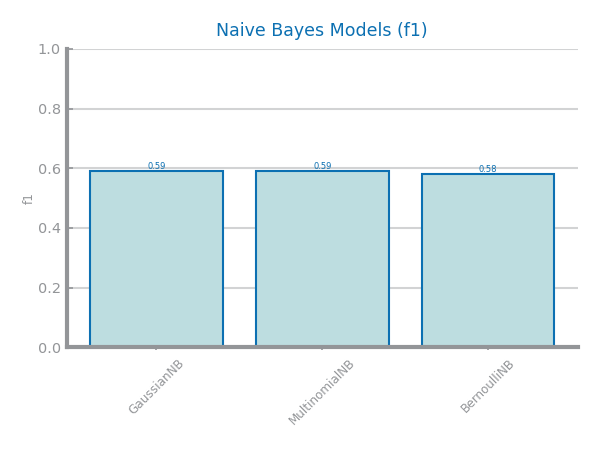
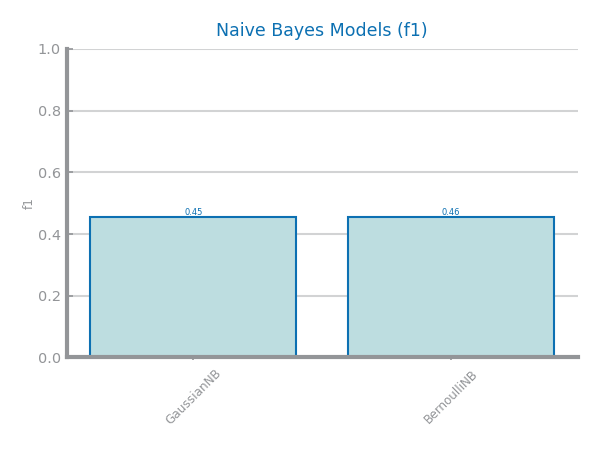
update todo, new NBclassification; IMPORTANT, ask for new data files

diff --git a/set1.py b/set1.py
@@ -229,7 +229,7 @@ evaluate(eval1, file_tag, "Outliers_truncate")
 
 {'accuracy': [0.6963073153657683, 0.7029488974448722], 'recall': [0.16870120866865598, 0.07966362238900443], 'precision': [0.4399119704472216, 0.4364266842800528], 'auc': [0.5404188138950101, 0.5187906659840907], 'f1': [0.24387799564270152, 0.13473351515305995]}
 {'accuracy': [0.6963073153657683, 0.7029838991949597], 'recall': [0.16870120866865598, 0.0797239051149893], 'precision': [0.4399119704472216, 0.43675693527080584], 'auc': [0.5404188138950101, 0.5188331373472066], 'f1': [0.24387799564270152, 0.13483547013993322]}
-'''
+
 
 # -------------------- #
 # ----- Scaling ------ #
@@ -251,58 +251,58 @@ evaluate(eval1, file_tag, "Scaling_standard")
 train_data_2, test_data_2 = train_test_split(scaling2, test_size=0.3, random_state=42)
 eval2 = evaluate_approach(train_data_2, test_data_2, target, "accuracy")
 print(eval2)
-evaluate(eval1, file_tag, "Scaling_min-max")
+evaluate(eval2, file_tag, "Scaling_min-max")
 
 {'accuracy': [0.7096867343367168, 0.7042527126356318], 'recall': [0.0, 0.06700424993218193], 'precision': [0.0, 0.43872113676731794], 'auc': [0.5, 0.5159688647907584], 'f1': [0.0, 0.1162535299654848]}
 {'accuracy': [0.7074641232061603, 0.7047602380119006], 'recall': [0.07236941254483528, 0.06516562678964342], 'precision': [0.47488132911392406, 0.44239819930427665], 'auc': [0.5198166311087369, 0.5157831882268255], 'f1': [0.125598305129077, 0.11359815048339639]}
-'''
+
 # -------------------- #
 # ----  Balancing ---- #
 # -------------------- #
+#TODO RUN THIS ONLY ONE TIME TO HAVE NEW DATASET!
+scaling = DataFrame = read_csv("data\pos_covid_scaled_zscore.csv",na_values="")
+strategy: array = scaling[target].to_list()
+trainData, testData = train_test_split(scaling, test_size=0.3, random_state=42, stratify=strategy)
+trainData.to_csv(f"data/{file_tag}_train.csv", index=False)
+testData.to_csv(f"data/{file_tag}_test.csv", index=False)
 
-scaling2 = DataFrame = read_csv("data\pos_covid_scaled_minmax.csv",na_values="")
-scaling2.drop(scaling2.columns[0], axis=1, inplace=True)
-dataBalancing = Balancing(filename, file_tag, scaling2, target)#TODO change for the best scalling
+trainData = DataFrame = read_csv("data\pos_covid_train.csv")
+testData = DataFrame = read_csv("data\pos_covid_test.csv")
+dataBalancing = Balancing(filename, file_tag, trainData, target)
 
 #dataBalancing.check_balance()
+
 undersampling = dataBalancing.undersampling()
 oversampling = dataBalancing.oversampling()
 smote = dataBalancing.SMOTE()
+oversampling.to_csv(f"data/{file_tag}_train.csv", index=False)
 
 #Eval undersampling
-train_data_1, test_data_1 = train_test_split(undersampling, test_size=0.3, random_state=42)
-eval1 = evaluate_approach(train_data_1, test_data_1, target, "accuracy")
+eval1 = evaluate_approach(undersampling, testData.copy(), target, "accuracy")
 print(eval1)
-
+evaluate(eval1, file_tag, "Balancing_undersampling")
 #Eval oversampling
-train_data_2, test_data_2 = train_test_split(oversampling, test_size=0.3, random_state=42)
-eval2 = evaluate_approach(train_data_2, test_data_2, target, "accuracy")
+eval2 = evaluate_approach(oversampling, testData.copy(), target, "accuracy")
 print(eval2)
-
+evaluate(eval2, file_tag, "Balancing_oversampling")
 #Eval smote
-train_data_3, test_data_3 = train_test_split(smote, test_size=0.3, random_state=42)
-eval3 = evaluate_approach(train_data_3, test_data_3, target, "accuracy")
+eval3 = evaluate_approach(smote, testData.copy(), target, "accuracy")
 print(eval3)
+evaluate(eval3, file_tag, "Balancing_SMOTE")
 
-
-{'accuracy': [0.5836427315225398, 0.5822147398800487], 'recall': [0.5802304830464898, 0.6072714073984453], 'precision': [0.5812325778693491, 0.5754865709289994], 'auc': [0.5836220842890371, 0.5823663557042427], 'f1': [0.5807310981609021, 0.5909519043974805]}
-{'accuracy': [0.5882937426326736, 0.789765047860621], 'recall': [0.5915400927113128, 0.885269750468488], 'precision': [0.5882908288376655, 0.7436027546212396], 'auc': [0.5882899114092272, 0.7896523367090157], 'f1': [0.5899109865250319, 0.8082756912824958]}
-{'accuracy': [0.6261440570747934, 0.7647763109983768], 'recall': [0.6036628316506222, 0.9034614006253012], 'precision': [0.6314993406934354, 0.7069750800205007], 'auc': [0.6261175880316431, 0.7649395966535126], 'f1': [0.6172674143105354, 0.7932317774450448]}
+#{'accuracy': [0.5847917395869794, 0.6007000350017501], 'recall': [0.5995719926455074, 0.4569430629653073], 'precision': [0.3679819449839984, 0.35441262419637637], 'auc': [0.5891587692164815, 0.5582250547801889], 'f1': [0.4560607102735172, 0.3991994944175269]}
+#{'accuracy': [0.5846692334616731, 0.6171946097304866], 'recall': [0.6004762335352805, 0.30732133707086234], 'precision': [0.3680331048752101, 0.3293068923196176], 'auc': [0.5893396296586554, 0.5256382772552072], 'f1': [0.45636138727264397, 0.3179344860381359]}
+#{'accuracy': [0.5851855092754638, 0.5815453272663633], 'recall': [0.5952014950116045, 0.40503963589233505], 'precision': [0.36757752875916755, 0.32365125240847786], 'auc': [0.5881448704112435, 0.5293942862149122], 'f1': [0.4544816396045984, 0.359800259715919]}
 '''
 # ---------------------------------------
 #             Classification  
 # ---------------------------------------
-'''
-classificationData = DataFrame = read_csv("data\pos_covid_balance_oversample.csv", na_values="")
-classificationData.drop(classificationData.columns[0], axis=1, inplace=True)
-strategy: array = classificationData[target].to_list()
 
 #Buscar Dados (treino, teste e validação)    
-trainData, testData = train_test_split(classificationData, test_size=0.3, stratify=strategy)
+
 #trainData, validationData = train_test_split(trainData, test_size=0.3, stratify=strategy)
 
-trainData.to_csv(f"data/{file_tag}_train.csv", index=False)
-testData.to_csv(f"data/{file_tag}_test.csv", index=False)
+
 
 # -------------------- #
 # ------ NBayes ------ #
@@ -312,22 +312,19 @@ classificationNB = NBayes(file_tag,"data/pos_covid_train.csv","data/pos_covid_te
 
 classificationNB.full_metrics_NB_study()
 
-'''
-'''
+
 # -------------------- #
 # ------- KNN -------- #
 # -------------------- #
-K_MAX = 1
-lag   = 1 # step size
+K_MAX = 25
+lag   = 2 # step size
 
 classificationKnn = Knn(file_tag,"data/pos_covid_train.csv","data/pos_covid_test.csv",target)
 
 # Testar Parâmetros:
 # --- K = [1 ... 25] 
 classificationKnn.full_metrics_knn_study(K_MAX, lag)
-'''
 
-'''
 # -------------------- #
 # -- Decision Trees -- #
 # -------------------- #
@@ -339,4 +336,4 @@ classificationDT = DecisionTree(file_tag,"data/pos_covid_train.csv","data/pos_co
 # Testar Parâmetros:
 # --- D = [2, 4, 6, 8, 10] 
 classificationDT.full_metrics_decision_tree_study(D_MAX, lag)
-'''
+

diff --git a/preparation/balancing.py b/preparation/balancing.py
@@ -2,7 +2,7 @@
 file:       balancing.py
 '''
 
-from pandas import read_csv, concat, DataFrame, Series
+from pandas import concat, DataFrame, Series
 from numpy import ndarray
 from matplotlib.pyplot import figure, show
 from auxiliar.dslabs_functions import plot_bar_chart
@@ -46,23 +46,19 @@ class Balancing:
     def undersampling(self): 
         df_neg_sample: DataFrame = DataFrame(self.df_negatives.sample(len(self.df_positives)))
         df_under: DataFrame = concat([self.df_positives, df_neg_sample], axis=0)
-        df_under.to_csv(f"data/{self.file_tag}_under.csv", index=False)
-
         print("Minority class=", self.positive_class, ":", len(self.df_positives))
         print("Majority class=", self.negative_class, ":", len(df_neg_sample))
         print("Proportion:", round(len(self.df_positives) / len(df_neg_sample), 2), ": 1")
-        df_under.to_csv(f"data/{self.file_tag}_balance_undersample.csv", index=True)
+        df_under.to_csv(f"data/{self.file_tag}_balance_undersample.csv", index=False)
         return df_under
 
     def oversampling(self):
         df_pos_sample: DataFrame = DataFrame(self.df_positives.sample(len(self.df_negatives), replace=True))
         df_over: DataFrame = concat([df_pos_sample, self.df_negatives], axis=0)
-        df_over.to_csv(f"data/{self.file_tag}_over.csv", index=False)
-
         print("Minority class=", self.positive_class, ":", len(df_pos_sample))
         print("Majority class=", self.negative_class, ":", len(self.df_negatives))
         print("Proportion:", round(len(df_pos_sample) / len(self.df_negatives), 2), ": 1")
-        df_over.to_csv(f"data/{self.file_tag}_balance_oversample.csv", index=True)
+        df_over.to_csv(f"data/{self.file_tag}_balance_oversample.csv", index=False)
         return df_over
 
     def SMOTE(self):
@@ -72,8 +68,6 @@ class Balancing:
         smote_X, smote_y = smote.fit_resample(X, y)
         df_smote: DataFrame = concat([DataFrame(smote_X), DataFrame(smote_y)], axis=1)
         df_smote.columns = list(self.original.columns) + [self.target]
-        df_smote.to_csv(f"data/{self.file_tag}_smote.csv", index=False)
-
         smote_target_count: Series = Series(smote_y).value_counts()
         print("Minority class=", self.positive_class, ":", smote_target_count[self.positive_class])
         print("Majority class=", self.negative_class, ":", smote_target_count[self.negative_class])
@@ -82,6 +76,5 @@ class Balancing:
             round(smote_target_count[self.positive_class] / smote_target_count[self.negative_class], 2),
             ": 1",
         )
-        print(df_smote.shape)
-        df_smote.to_csv(f"data/{self.file_tag}_balance_smote.csv", index=True)
+        df_smote.to_csv(f"data/{self.file_tag}_balance_smote.csv", index=False)
         return df_smote

diff --git a/classification/decision_tree.py b/classification/decision_tree.py
@@ -56,6 +56,7 @@ class DecisionTree:
             savefig(f"images/classification/{self.file_tag}_dt_{eval_metric}_study.png")
             if eval_metric == "accuracy":
                 self.performance_analysis(best_model,params)
+                self.visualize_tree(best_model,params)
                 self.visualize_tree_simplified(best_model,params)
                 self.visualize_variable_importance(best_model,eval_metric)
                 self.dt_overfitting_study(params,eval_metric)

diff --git a/classification/knn.py b/classification/knn.py
@@ -45,8 +45,7 @@ class Knn:
         return best_model, best_params
 
     def full_metrics_knn_study(self, k_max, lag):
-        #eval_metrics = ["accuracy","recall","precision","auc","f1"]
-        eval_metrics = ["accuracy"]
+        eval_metrics = ["accuracy","recall","precision","auc","f1"]
         for eval_metric in eval_metrics:
             figure()
             print(f"new metric: {eval_metric}")

diff --git a/classification/NBayes.py b/classification/NBayes.py
@@ -17,7 +17,7 @@ class NBayes:
     def naive_Bayes_study(self, metric: str = "accuracy") -> tuple:
         estimators: dict = {
             "GaussianNB": GaussianNB(),
-            "MultinomialNB": MultinomialNB(),
+            #"MultinomialNB": MultinomialNB(),
             "BernoulliNB": BernoulliNB(),
         }
 

diff --git a/TODO.md b/TODO.md
@@ -4,7 +4,7 @@
 
 - [x] State -> Ordinal (use gdp?)
 - [x] RaceEthnicity - ordinal
-- [ ] Redo all graphics after encoding (sparsity forwards)(new evaluate function)
+- [ ] Redo all graphics after encoding (sparsity forwards)(new evaluate function) -> ONLY MISSING SPARSITY
 
 ## Preparation
 
@@ -12,7 +12,7 @@
 
 ### Balance
 
-- [ ] Remove test from balance
-- [ ] Do hybrid balancing (cut sample in half and then oversample)(when cuting, apply stratify to have same distribution)
+- [x] Remove test from balance
+- [x] Do hybrid balancing (cut sample in half and then oversample)(when cuting, apply stratify to have same distribution)
 
 
